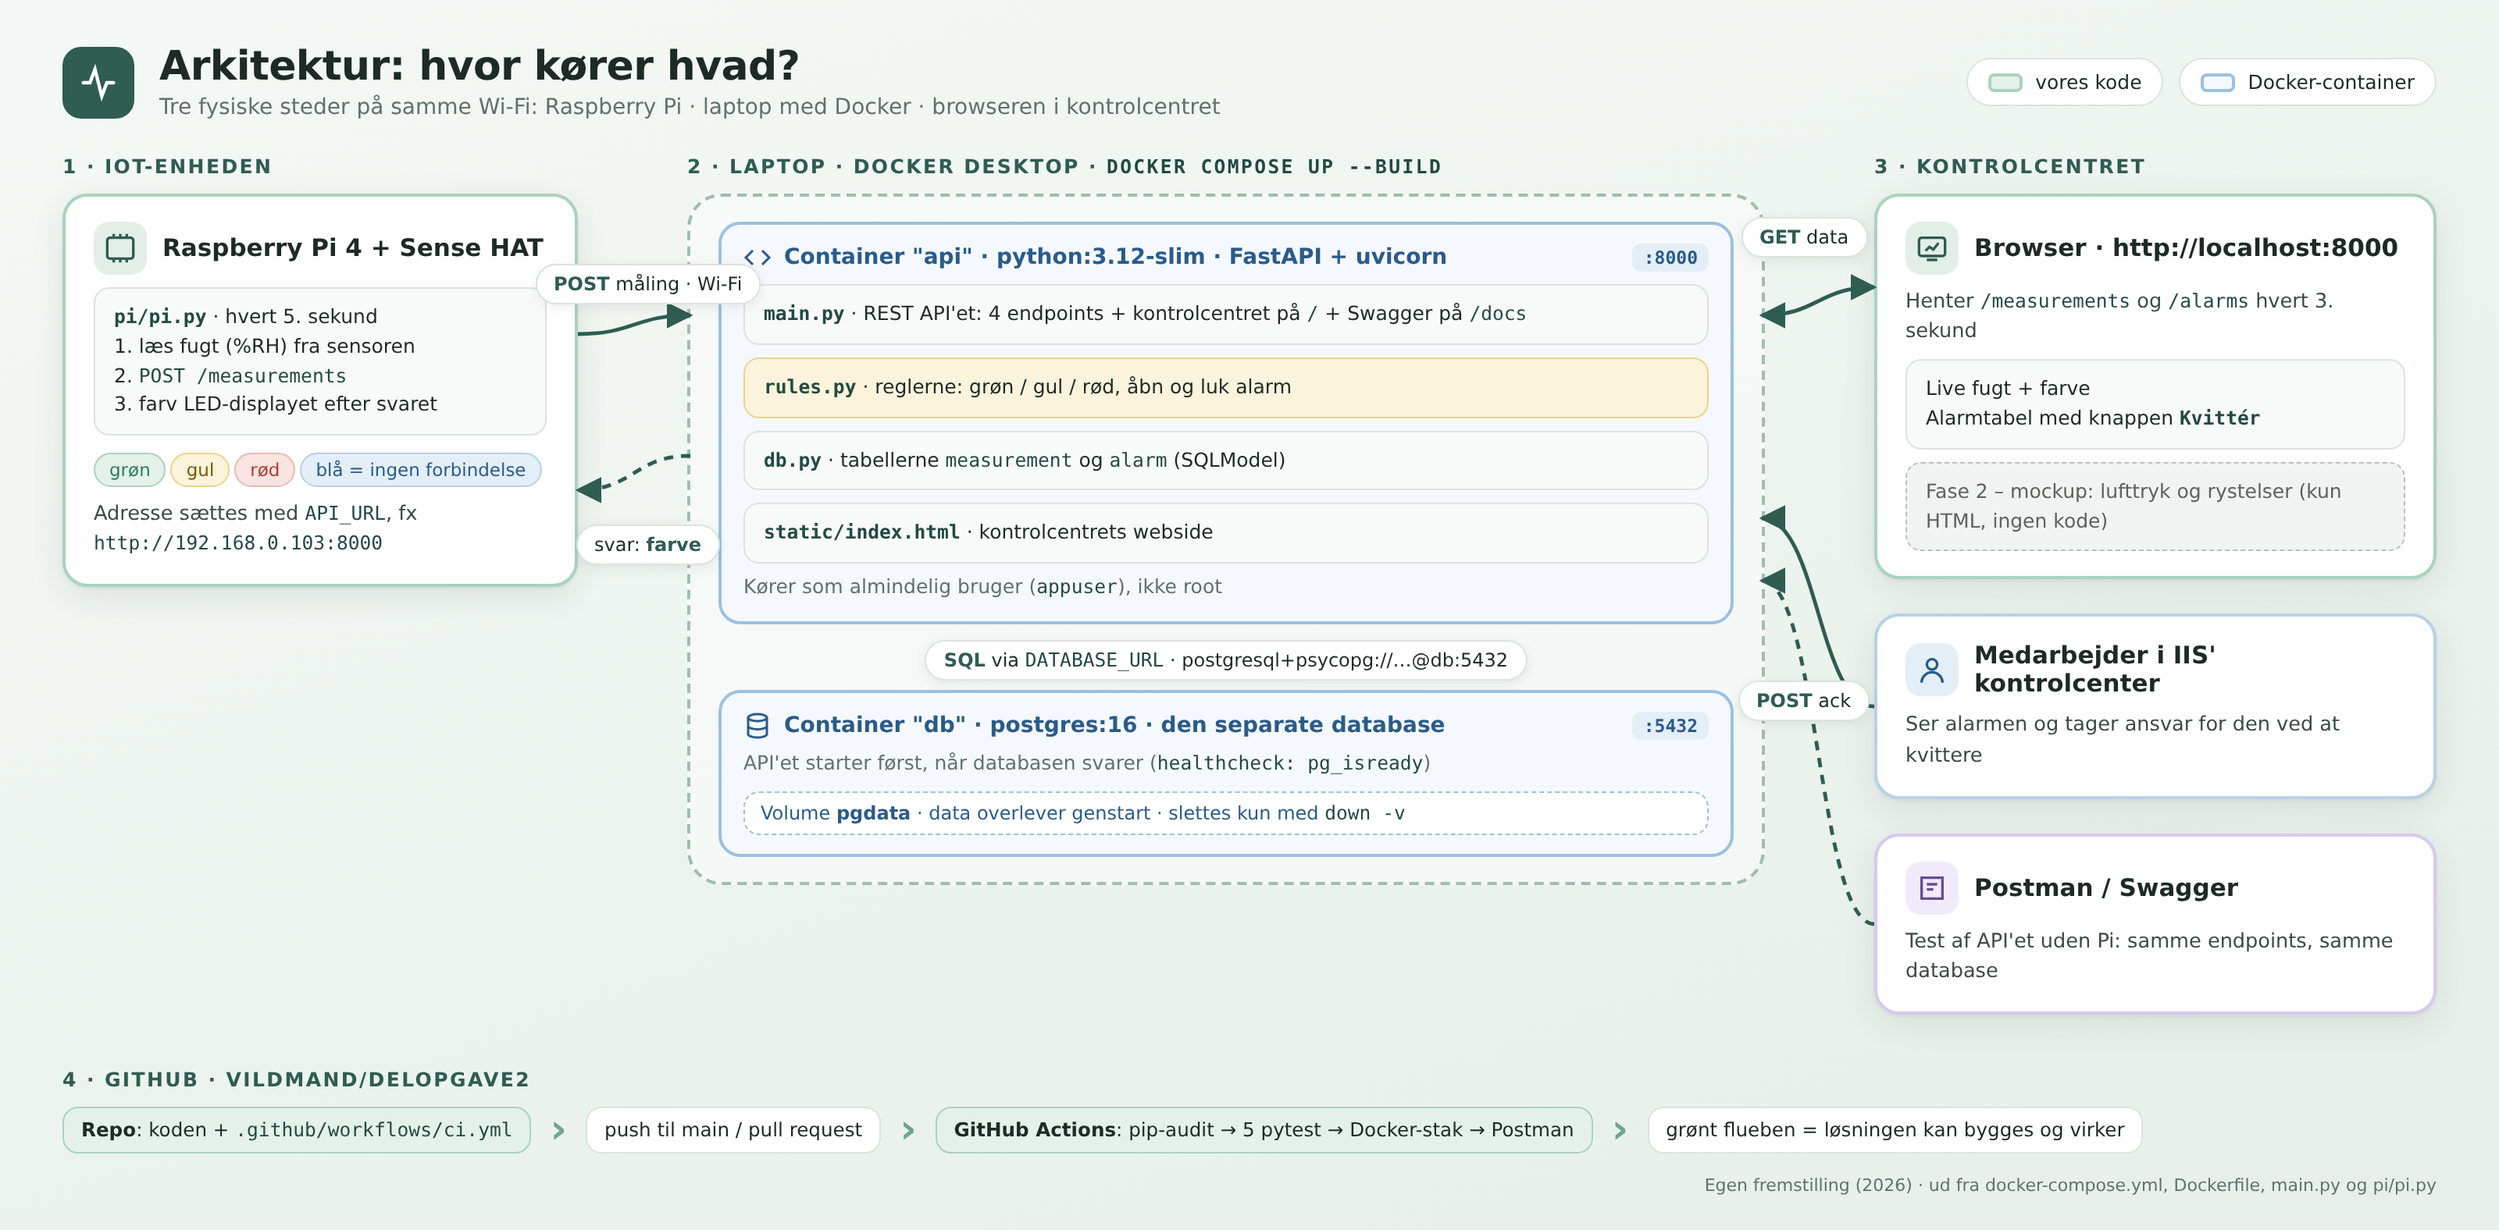
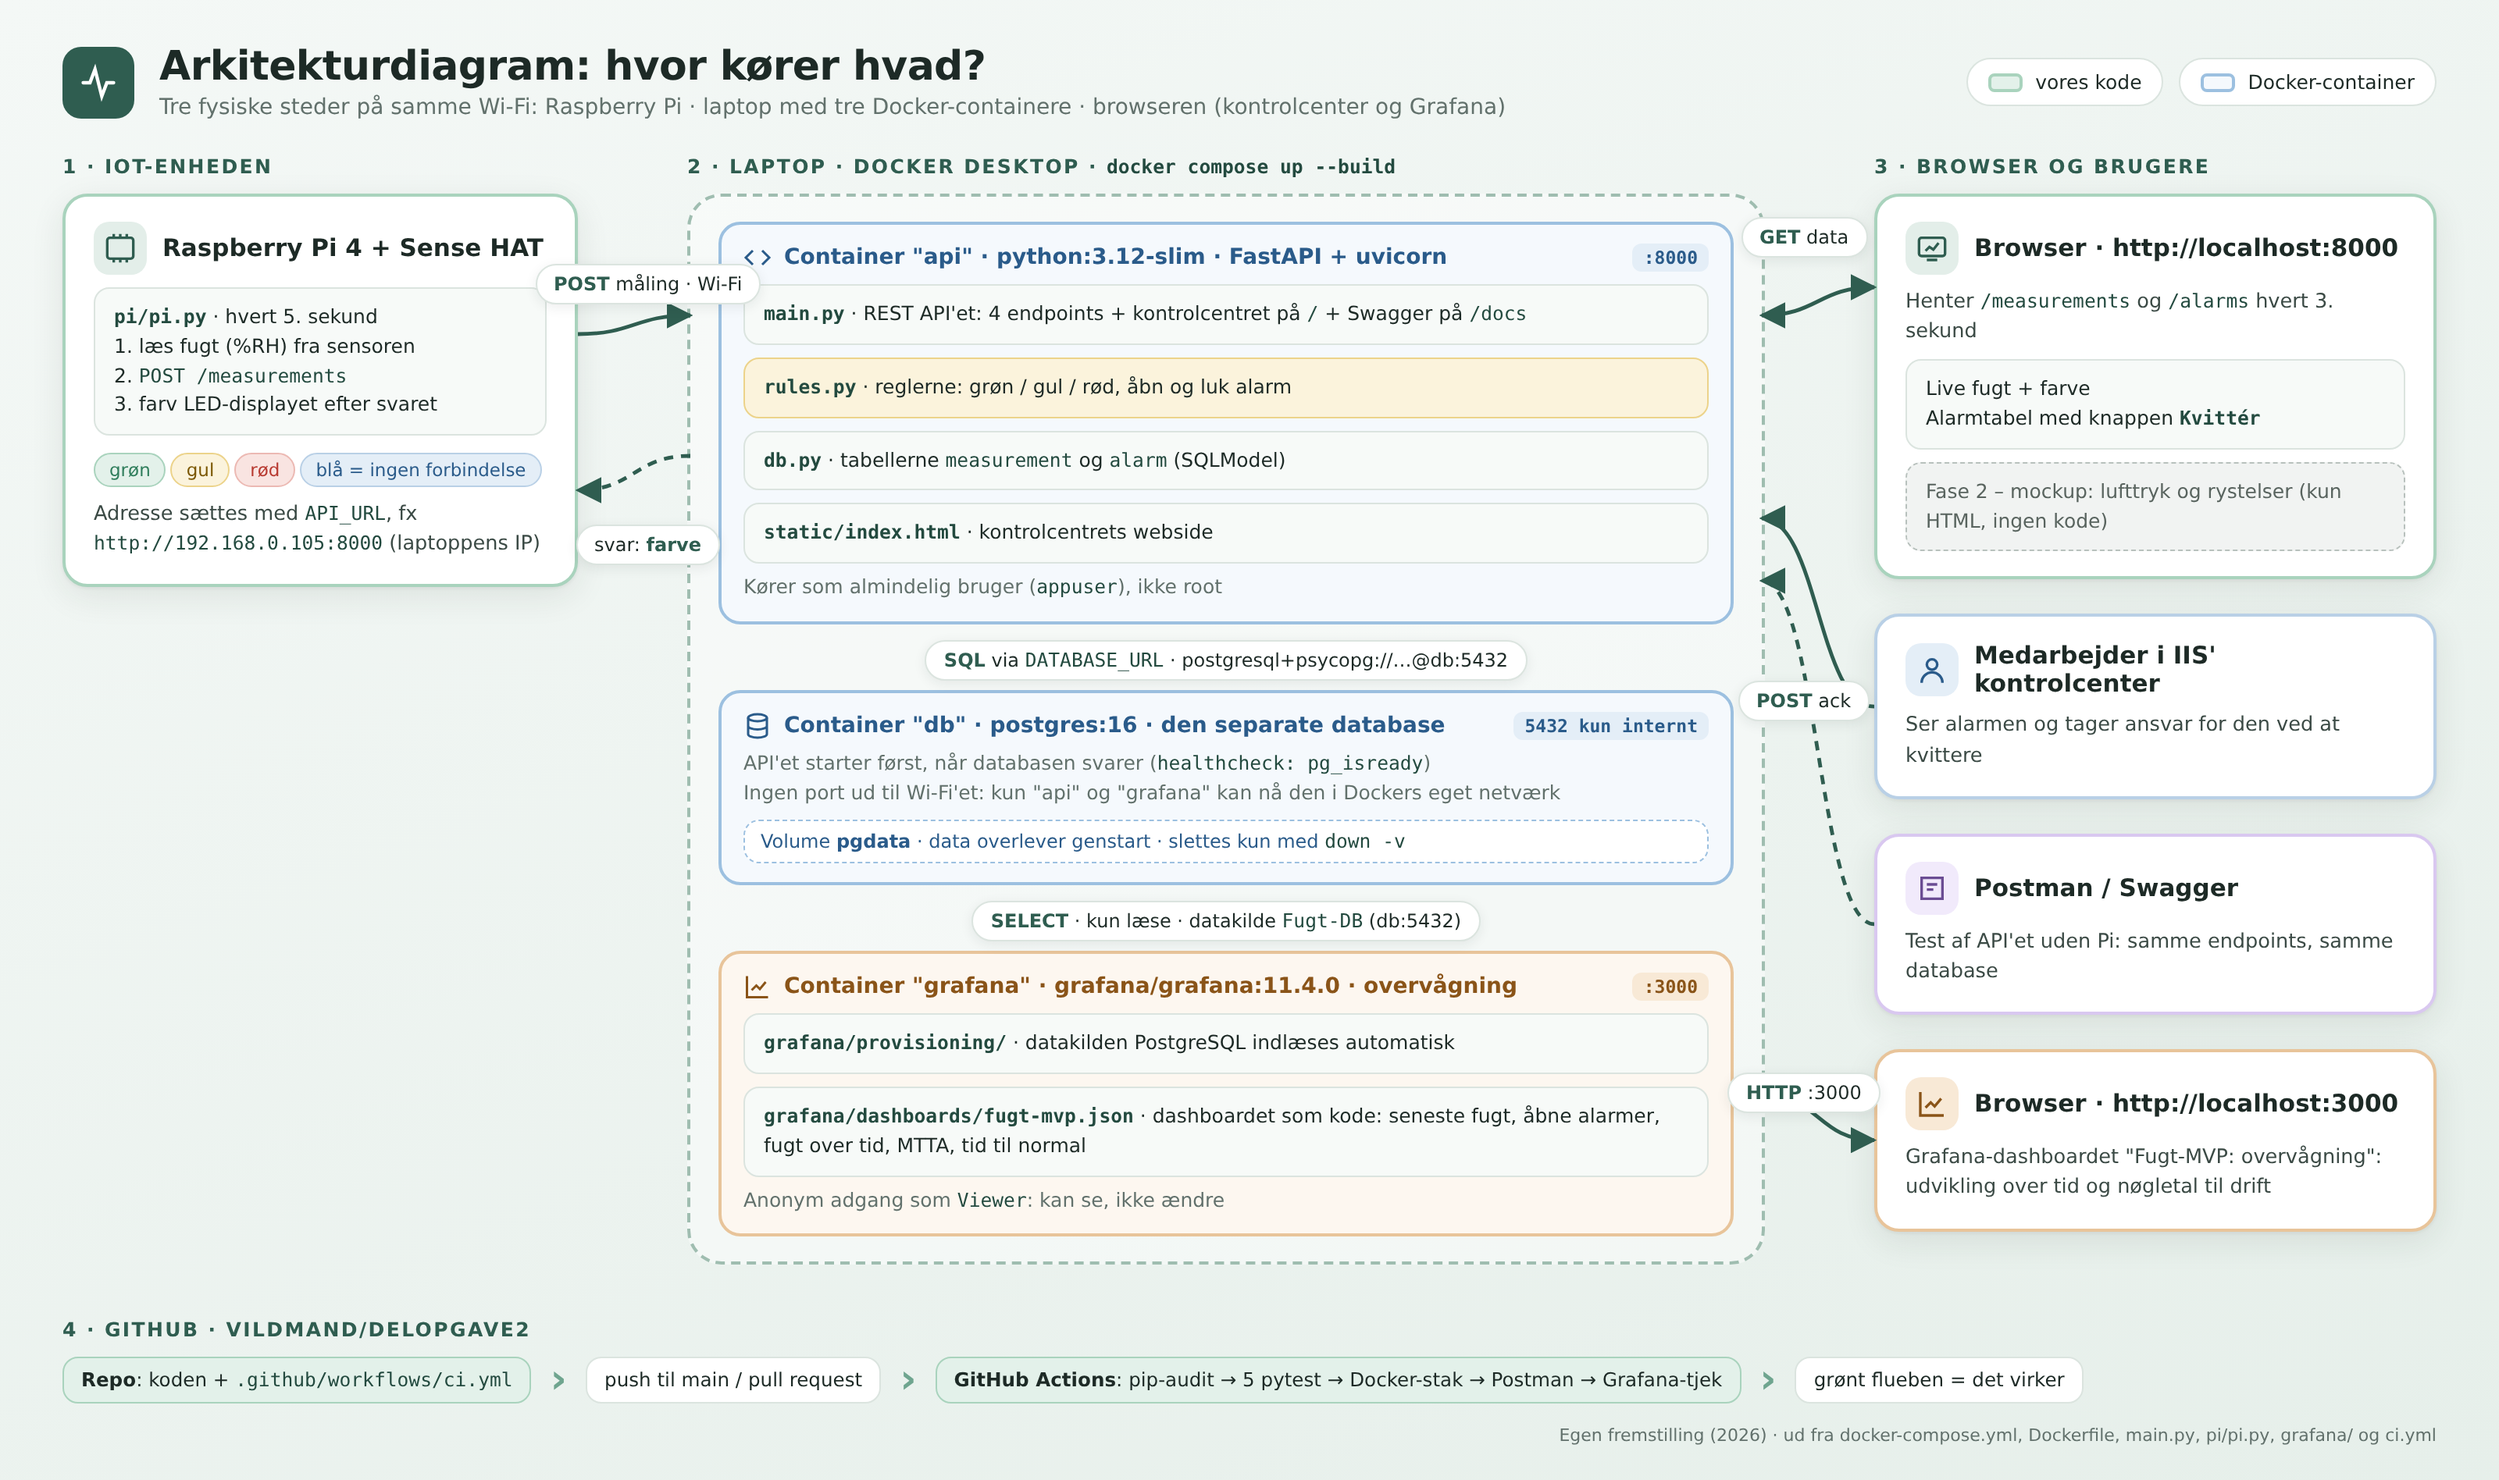
Arkitektur- og dataflowdiagram: Grafana med i arkitekturen, nyt dataflowdiagram (diagram 7)

diff --git a/docs/RAPPORT.md b/docs/RAPPORT.md
@@ -286,7 +286,7 @@ Billederne er taget af den rigtige kode med de rigtige linjenumre. Koden er skre
 ![](img/diagram-simpel-1-arkitektur.png){width=100%}
 
 ::: {custom-style="Billedtekst"}
-(Diagram 1, egen fremstilling (2026): Hvor kører hvad i MVP'en. Pi'en sender målinger over Wi-Fi til serveren og databasen i hver sin Docker-container på den bærbare computer. Kontrolcentret i browseren henter data og kvitterer. Nederst den automatiske kontrol på GitHub)
+(Diagram 1, egen fremstilling (2026): Arkitekturdiagram, hvor kører hvad i MVP'en. Pi'en sender målinger over Wi-Fi til serveren på den bærbare computer, hvor API, PostgreSQL og Grafana kører i hver sin Docker-container. Kontrolcentret i browseren henter data og kvitterer, og Grafana læser direkte fra databasen. Nederst den automatiske kontrol på GitHub)
 :::
 
 ![](img/diagram-simpel-3-sekvens.png){width=100%}
@@ -319,6 +319,12 @@ Billederne er taget af den rigtige kode med de rigtige linjenumre. Koden er skre
 (Diagram 6, egen fremstilling (2026): Reglerne og en alarms liv. Øverst farveskalaen med grænserne 55 og 60 %RH. Nederst en alarms forløb. Numrene på pilene er de tests, der kontrollerer hvert skridt)
 :::
 
+![](img/diagram-simpel-9-dataflow.png){width=100%}
+
+::: {custom-style="Billedtekst"}
+(Diagram 7, egen fremstilling (2026): Dataflowdiagram. Øverst målingens vej ind: måling, validering, regel for farve, lagring, regel for alarm og svaret til LED'en. I midten de to datalagre measurement og alarm med alarmens liv (åben, kvitteret, lukket). Nederst hvem der bruger data: kontrolcentret, kvitteringen og Grafana)
+:::
+
 ## Bilag C. Hele projektets mappestruktur på GitHub {.unnumbered .bilag}
 
 Mappestrukturen (på engelsk et treeview) viser alle filer i https://github.com/Vildmand/Delopgave2. Kun tre filer udgør selve serveren: `main.py`, `rules.py` og `db.py`.
@@ -329,7 +335,7 @@ Delopgave2/
 │   └── workflows/
 │       └── ci.yml                CI/CD: audit → test → Docker → Newman
 ├── docs/
-│   ├── img/                      kodebilleder (01–11) og diagrammer (1–8)
+│   ├── img/                      kodebilleder (01–11) og diagrammer (1–9)
 │   ├── KODEGUIDE.md              forklaring af koden, fil for fil
 │   ├── KRAV.md                   opgavens krav → hvor de er løst
 │   ├── PI-GUIDE.md               sådan startes pi.py på Pi'en

diff --git a/docs/img/README.md b/docs/img/README.md
@@ -1,10 +1,11 @@
 # Diagrammer over den simple fugt-MVP
 
-Alle diagrammer er tegnet ud fra koden i dette repo (Egen fremstilling, 2026). Kilderne (HTML) ligger i projektmappen `rapport/byg/diagrammer-simpel/`.
+Alle diagrammer er tegnet ud fra koden i dette repo (Egen fremstilling, 2026). Kilderne (HTML) ligger i projektmappen `rapport/byg/diagrammer-simpel/` (d1 = arkitektur, d9 = dataflow).
 
 | Fil | Billedtekst |
 |---|---|
-| `diagram-simpel-1-arkitektur.png` | Arkitektur: Raspberry Pi med Sense HAT sender målinger over Wi-Fi til FastAPI og PostgreSQL i hver sin Docker-container på laptoppen; kontrolcentret i browseren henter data og kvitterer. |
+| `diagram-simpel-1-arkitektur.png` | Arkitekturdiagram: Raspberry Pi med Sense HAT sender målinger over Wi-Fi til FastAPI; API, PostgreSQL og Grafana kører i hver sin Docker-container på laptoppen; kontrolcentret i browseren henter data og kvitterer, Grafana læser databasen; nederst CI på GitHub Actions. Rapportens bilag B, diagram 1. |
+| `diagram-simpel-9-dataflow.png` | Dataflowdiagram: måling → validering (422 ved fejl) → regel for farve → gem i `measurement` → regel for alarm (åbn/luk i `alarm`) → svar til LED'en; alarmens liv åben → kvitteret → lukket; kontrolcenter, Kvittér og Grafana som brugere af data. Rapportens bilag B, diagram 7. |
 | `diagram-simpel-2-alarmflow.png` | Reglerne: farveskalaen grøn/gul/rød (55 og 60 %RH) og en alarms liv fra åben over kvitteret til lukket, med hysterese og testene 2–5 på pilene. |
 | `diagram-simpel-3-sekvens.png` | Sekvens: hvad der sker trin for trin, når Pi'en måler 63,1 %RH (validering, regler, én databasetransaktion, rød LED), og når en medarbejder kvitterer. |
 | `diagram-simpel-4-cicd.png` | CI/CD: GitHub Actions kører pip-audit, de 5 tests, bygger og starter Docker-stakken og kører Postman mod den ved hvert push til main. |

diff --git a/docs/START-HER.md b/docs/START-HER.md
@@ -15,7 +15,7 @@ Filerne ligger i zip-pakken i mapperne 1–5. I repoet ligger de samme ting i `d
 |---|---|---|---|
 | 1 | `1-praesentation/` | `docs/praesentation.pdf` / `.pptx` | 11 slides: hvad vi byggede og hvorfor. Talenoter under hver slide |
 | 2 | `2-rapport/` | `docs/RAPPORT.md` | Den endelige 7-siders rapport (pdf og docx), rettet efter feedbacken på delopgave 1: strategi og målbare mål, bounded contexts og teknisk arkitektur. Bilag med kode, diagrammer og begreber |
-| 3 | `3-diagrammer/` | `docs/img/diagram-simpel-*.png` | 1 deployment · 2 regler og alarmflow · 3 én måling start-slut · 4 CI/CD · 5 datamodel · 6 vejen frem · 7 bounded contexts og context map · 8 teknisk arkitektur og mønstre |
+| 3 | `3-diagrammer/` | `docs/img/diagram-simpel-*.png` | 1 arkitektur (deployment) · 2 regler og alarmflow · 3 én måling start-slut · 4 CI/CD · 5 datamodel · 6 vejen frem · 7 bounded contexts og context map · 8 teknisk arkitektur og mønstre · 9 dataflow |
 | 4 | `4-dokumenter/KODEGUIDE` | `docs/KODEGUIDE.md` | Gennemgang af hver fil, og hvorfor koden er skrevet sådan |
 | 5 | `5-kodebilleder/` | `docs/img/01-…11-*.png` | De vigtigste kodestykker som billeder, klar til slides |
 | 6 | `4-dokumenter/KRAV` | `docs/KRAV.md` | Opgavens krav, og hvilken fil der opfylder hvert krav |

diff --git a/docs/KODEGUIDE.md b/docs/KODEGUIDE.md
@@ -21,7 +21,7 @@ Delopgave2/
 │   ├── img/
 │   │   ├── 01-rules.png … 11-ci.png      kodeskærmbillederne i denne guide
 │   │   ├── grafana.png                  skærmbillede af Grafana-dashboardet
-│   │   ├── diagram-simpel-1…8-*.png     arkitektur, alarmflow, sekvens, CI/CD, datamodel, vejen frem, context map, teknisk arkitektur
+│   │   ├── diagram-simpel-1…9-*.png     arkitektur, alarmflow, sekvens, CI/CD, datamodel, vejen frem, context map, teknisk arkitektur, dataflow
 │   │   └── README.md                    oversigt over diagrammerne
 │   ├── KODEGUIDE.md                     denne fil
 │   ├── KRAV.md                          opgavens krav → hvor de er løst
